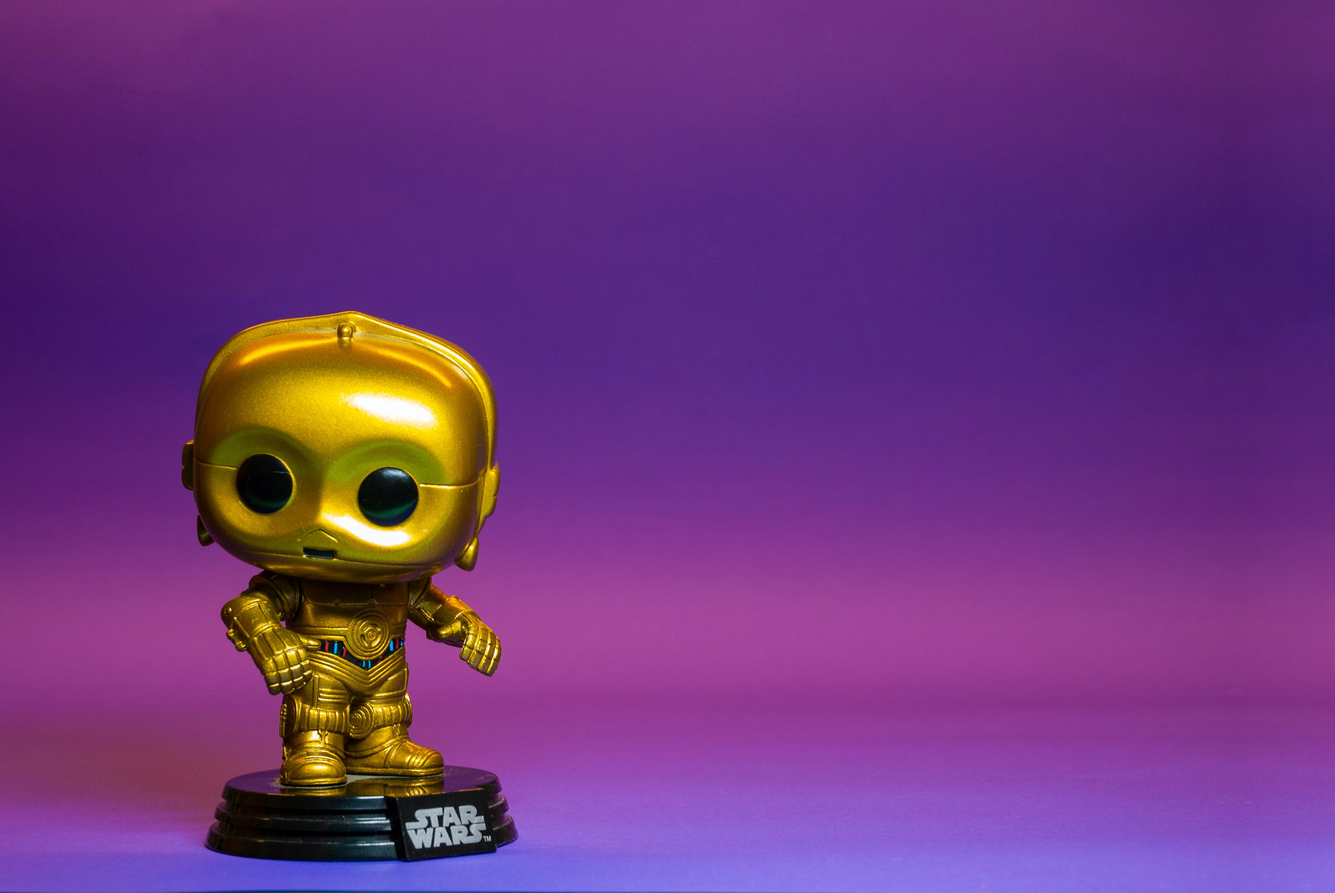
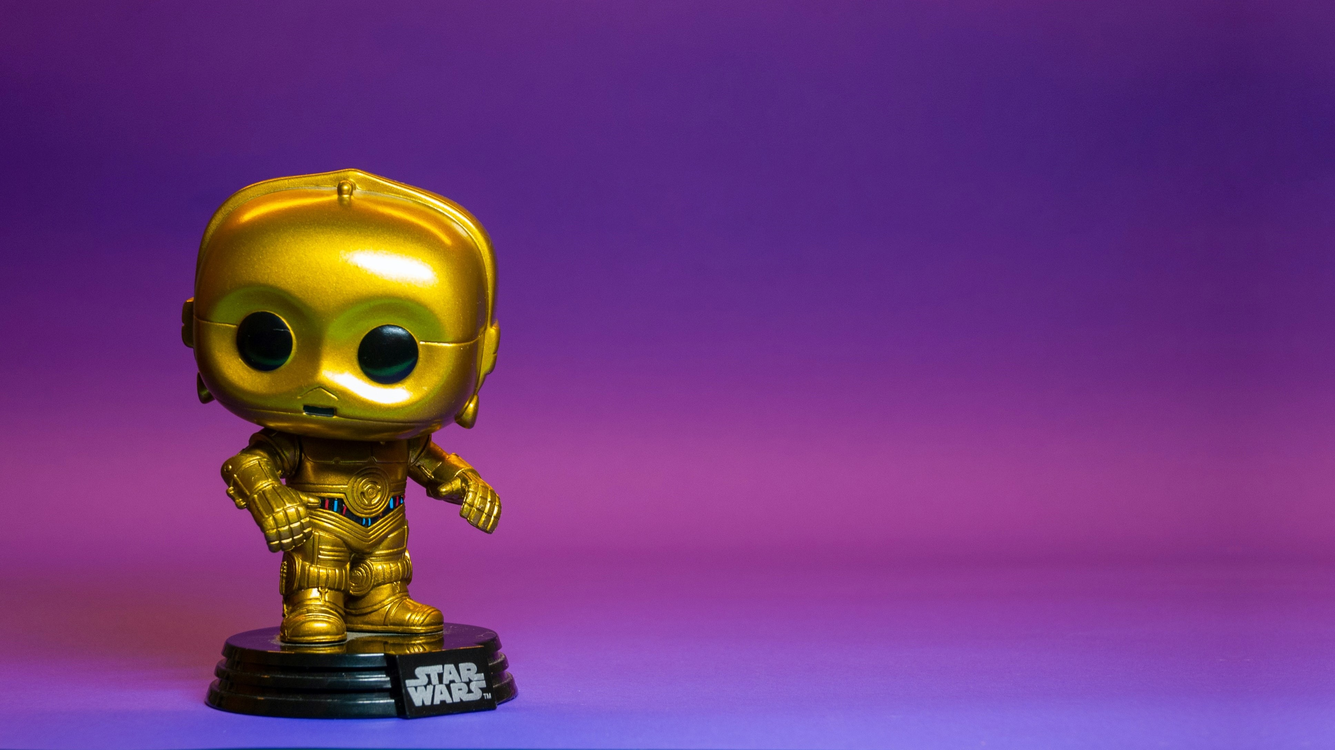
Ajustes a diseño y funcionalidad de carrusel

diff --git a/public/css/style_product_page.css b/public/css/style_product_page.css
@@ -1,115 +1,109 @@
 @font-face {
-	font-family: "Montserrat";
-	src: url("https://fonts.googleapis.com/css2?family=Montserrat:wght@300;400;700,900&display=swap");
+    font-family: "Montserrat";
+    src: url("https://fonts.googleapis.com/css2?family=Montserrat:wght@300;400;700,900&display=swap");
 }
 
 body {
-	font-family: "Montserrat", sans-serif;
+    font-family: "Montserrat", sans-serif;
 }
 
 #back-icon {
-	filter: invert(1);
+    filter: invert(1);
 }
 
 h1 {
-	font-weight: 900;
-	font-size: 39.1px;
-	letter-spacing: 0.5em;
+    font-weight: 900;
+    font-size: 39.1px;
+    letter-spacing: 0.5em;
 }
 
 h2 {
-	font-weight: 700;
-	font-size: 31.3px;
+    font-weight: 700;
+    font-size: 31.3px;
 }
 
 h3 {
-	font-weight: 400;
-	font-size: 23px;
-	padding: 30px;
+    font-weight: 400;
+    font-size: 23px;
+    padding: 30px;
 }
 
 .product-title {
-	display: flex;
-	justify-content: center;
-	margin-top: 50px;
-	margin-bottom: 80px;
+    display: flex;
+    justify-content: center;
+    margin-top: 50px;
+    margin-bottom: 80px;
 }
 
 .product-container-image-pane {
-	display: flex;
-	justify-content: center;
-	height: 500px;
+    display: flex;
+    justify-content: center;
+    height: 500px;
 }
 
 .rounded-divider {
-	background-color: darkslategray;
-	height: 5px;
-	width: 10%;
-	margin: auto;
-	margin-top: 40px;
-	border-radius: 5px;
+    background-color: darkslategray;
+    height: 5px;
+    width: 10%;
+    margin: auto;
+    margin-top: 40px;
+    border-radius: 5px;
 }
 
 .product-container-info-pane {
-	padding: 50px 10% 0px 10%;
-	display: flex;
-	flex-wrap: wrap;
-	justify-content: center;
-	text-align: center;
-	flex-direction: column;
+    padding: 50px 10% 0px 10%;
+    display: flex;
+    flex-wrap: wrap;
+    justify-content: center;
+    text-align: center;
+    flex-direction: column;
 }
 
 .product-container-info-pane h1 {
-	font-weight: 700;
-	font-size: 100px;
-	letter-spacing: 0;
-	margin: 0;
+    font-weight: 700;
+    font-size: 100px;
+    letter-spacing: 0;
+    margin: 0;
 }
 
 .product-controls {
-	height: 30%;
-	display: flex;
-	justify-content: center;
-	align-content: center;
-	height: 50px;
+    height: 30%;
+    display: flex;
+    justify-content: center;
+    align-content: center;
+    height: 50px;
 }
 
 .icon-container {
-	display: flex;
-	align-content: center;
-	margin: 20px 0px 0px 20px;
+    display: flex;
+    align-content: center;
+    margin: 20px 0px 0px 20px;
 }
 
 #related-items-title {
-	text-align: center;
+    text-align: center;
 }
 
 .related-items-container {
-	display: flex;
-	justify-content: space-around;
-	margin-bottom: 30px;
+    display: flex;
+    justify-content: space-around;
+    margin-bottom: 30px;
 }
 
 .related-item img {
-	height: 200px;
-}
-
-footer {
-	background-color: rgb(24, 24, 24);
+    height: 200px;
 }
 
 @media (min-width: 1024px) {
-	.product-container {
-		display: flex;
-		justify-content: center;
-	}
-
-	.rounded-divider {
-		display: none;
-	}
-
-	.product-container-info-pane {
-		flex-direction: column;
-		width: 50%;
-	}
+    .product-container {
+        display: flex;
+        justify-content: center;
+    }
+    .rounded-divider {
+        display: none;
+    }
+    .product-container-info-pane {
+        flex-direction: column;
+        width: 50%;
+    }
 }

diff --git a/public/css/styles.css b/public/css/styles.css
@@ -54,6 +54,7 @@ i {
 
 .d-block {
     display: block;
+    text-align: center;
 }
 
 .navbar-tools {
@@ -128,6 +129,7 @@ header {
     border: none;
     resize: none;
     outline: none;
+    margin-top: 2rem;
 }
 
 .searchbar i {
@@ -147,6 +149,7 @@ header {
     margin-left: -2px;
     background-color: #415a77;
     border-radius: 5%;
+    margin-top: 2rem;
 }
 
 
@@ -201,6 +204,10 @@ header {
     color: white;
 }
 
+.cart-info-navbar p {
+    margin-bottom: 0;
+}
+
 @media screen and (min-width: 1024px) {
     .logo p {
         font-size: 2.4rem;
@@ -208,6 +215,7 @@ header {
     .account-info-navbar p,
     .icono-flecha {
         display: block;
+        margin-bottom: 0;
     }
     .account-info-navbar {
         margin-right: 3rem;
@@ -217,6 +225,7 @@ header {
         height: 4rem;
         font-size: 1.4rem;
         padding: 0 1.5rem;
+        margin-top: 0;
     }
     .searchbar i {
         margin-right: 0;
@@ -227,6 +236,7 @@ header {
         width: 4rem;
         border: none;
         margin-left: -2px;
+        margin-top: 0;
     }
     .icono-usuario {
         display: none;
@@ -266,14 +276,21 @@ header {
 /**Colecciones**/
 
 .colecciones-navbar ul {
+    display: none;
+}
+
+.display-colecciones-navbar {
     list-style: none;
     margin: 0;
     padding: 0;
-    text-align: center;
 }
 
 #Mobile-colecciones li {
     margin-top: 2rem;
+}
+
+#Mobile-colecciones a:hover {
+    color: #778DA9;
 }
 
 .colecciones-navbar {
@@ -308,6 +325,7 @@ footer {
     display: flex;
     color: white;
     justify-content: space-around;
+    align-items: center;
 }
 
 .sobre-nosotros {
@@ -337,6 +355,23 @@ footer {
     margin-top: 2rem;
 }
 
+@media screen and (max-width: 768px) {
+    footer {
+        display: block;
+        padding: 3rem 2rem;
+    }
+    .sobre-nosotros {
+        width: 100%;
+        margin: 2rem 0 0 0;
+        text-align: center;
+    }
+    .logo-footer {
+        margin: 1rem auto;
+        text-align: center;
+        justify-content: center;
+    }
+}
+
 
 /**********************/
 
@@ -356,6 +391,10 @@ footer {
 
 
 /**Bienvenida**/
+
+.bienvenida {
+    margin-top: 4rem;
+}
 
 .logo-bienvenida {
     color: #0d1b2a;
@@ -600,4 +639,21 @@ footer {
 
 .filtro-productos select {
     font-weight: bold;
+}
+
+.texto-logo {
+    margin-bottom: 0;
+}
+
+.carousel-item img {
+    height: 100vh;
+}
+
+@media screen and (max-width: 768px) {
+    .carousel-item img {
+        height: 50vh;
+    }
+    #carousel {
+        margin-top: 20%;
+    }
 }

diff --git a/public/js/landing-page.js b/public/js/landing-page.js
@@ -1,3 +1,3 @@
 $('#Menu-colecciones').on('click', function() {
-    $('#Mobile-colecciones').toggleClass('d-none');
+    $('#Mobile-colecciones').toggleClass('d-block');
 });
